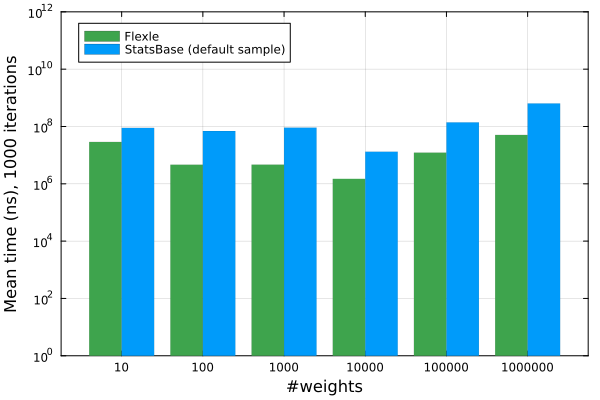
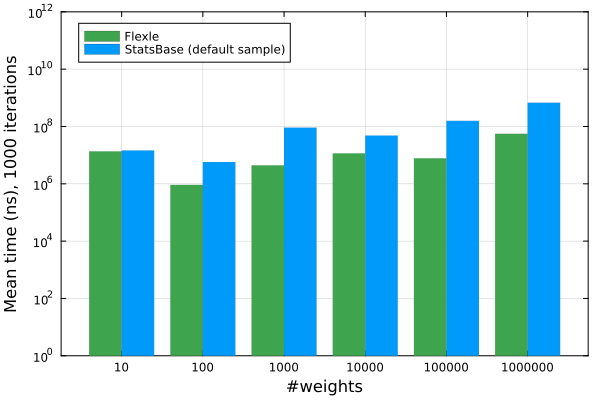
more on operations benchmarking

diff --git a/benchmarking.md b/benchmarking.md
@@ -71,13 +71,15 @@ repeat r times
 ```
 
 The following shows the runtime of (1) initializing a vector of weights and all appropriate data structures, plus
-(2) running the above algorithm for random weights vectors as above[^4] for $10^j$ iterations with $j \in [2 .. 5]$.
+(2) running the above algorithm for random weights vectors as above[^4] for $10^j$ iterations with $j \in [1 .. 4]$.
 
-| ![Figure 3a](docs/assets/03_compare_ops_1000.png) ![Figure 3b](docs/assets/03_compare_ops_10000.png) ![Figure 3c](docs/assets/03_compare_ops_100000.png) ![Figure 3d](docs/assets/03_compare_ops_1000000.png) |
+| ![Figure 3a](docs/assets/03_compare_ops_10.png) ![Figure 3b](docs/assets/03_compare_ops_100.png) ![Figure 3c](docs/assets/03_compare_ops_1000.png) ![Figure 3d](docs/assets/03_compare_ops_10000.png) |
 |:--:|
 |*Figure 3: Comparison of runtime for Flexle versus StatsBase (default sampling algorithm) to perform the aforementioned arbitrary sequence of operations.* |
 
-For all numbers of iterations and sizes of weights vectors assessed, Flexle outperforms StatsBase by around 0.5 to
-2 orders of magnitude, even including the extra time necessary to initialize the `FlexleSampler`.
+Flexle's performance benefits are best realized when two conditions are met:
+1. The number of operations to be performed (especially sampling, updating, and addition) is large, so the $O(m)$ cost of producing the sampler is successfully amortized.
+2. The number of weights is large, so Flexle's sampling is substantially faster than that of alternatives (see [Figure 1](#sampling)).
+
 
 [^4]: excluding that of size $5$, as too many removals can easily result in an empty weights vector
